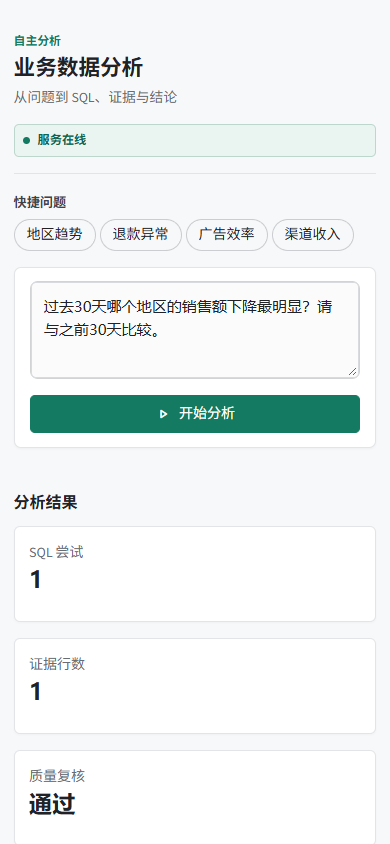
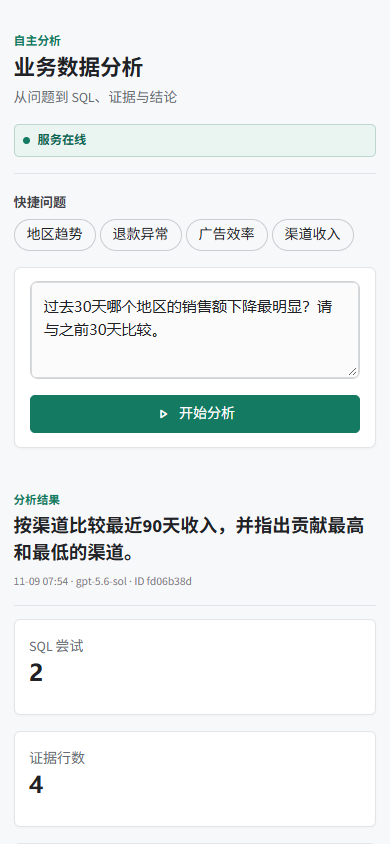
feat: refine analysis workspace UI

Changed region(s): [[0.0308, 0.5853, 0.9538, 0.8318], [0.0615, 0.8626, 0.9538, 0.9858]]

diff --git a/ui/streamlit_app.py b/ui/streamlit_app.py
@@ -122,6 +122,9 @@ st.markdown(
         color: #4f5459; font-weight: 550; padding-left: 0.45rem;
     }
     section[data-testid="stSidebar"] .stButton button:hover { background: #e6e9e8; color: var(--ink); }
+    section[data-testid="stSidebar"] [data-testid="stCaptionContainer"] {
+        color: #858a90; font-size: 0.68rem; margin: -0.42rem 0 0.42rem 2rem;
+    }
     section[data-testid="stSidebar"] .stButton button[kind="primary"] {
         background: var(--green) !important; border-color: var(--green) !important;
         color: #ffffff !important; justify-content: center;
@@ -139,16 +142,41 @@ st.markdown(
     div[data-testid="stStatusWidget"] { border: 1px solid var(--line); border-radius: 6px; background: var(--panel); }
 
     .ia-result-head {
-        display: flex; align-items: center; justify-content: space-between;
-        margin: 1.6rem 0 0.65rem;
+        display: grid; grid-template-columns: 1fr auto; gap: 1rem; align-items: end;
+        margin: 1.65rem 0 0.85rem; padding: 0 0 0.9rem;
+        border-bottom: 1px solid var(--line);
     }
-    .ia-result-title { font-size: 1rem; font-weight: 740; }
-    .ia-request-id { color: #858a90; font-family: monospace; font-size: 0.7rem; }
+    .ia-result-kicker { color: var(--green); font-size: 0.72rem; font-weight: 760; margin-bottom: 0.25rem; }
+    .ia-result-title { font-size: 1.15rem; line-height: 1.45; font-weight: 740; max-width: 920px; }
+    .ia-result-meta { color: #7b8085; font-size: 0.72rem; margin-top: 0.35rem; }
+    .ia-request-id { color: #858a90; font-family: monospace; font-size: 0.7rem; white-space: nowrap; }
     .ia-followup {
-        margin: 0.8rem 0 0.2rem; padding: 0.8rem 0.95rem;
+        margin: 0.8rem 0 0.55rem; padding: 0.8rem 0.95rem;
         border-left: 3px solid var(--green); background: var(--green-soft);
         color: #315b50; font-size: 0.8rem;
     }
+    .ia-stage-label { margin: 1rem 0 0.5rem; color: #62676c; font-size: 0.74rem; font-weight: 720; }
+    .ia-stage-strip {
+        display: grid; grid-template-columns: repeat(8, minmax(0, 1fr)); gap: 0.35rem;
+        margin-bottom: 0.9rem;
+    }
+    .ia-stage {
+        min-width: 0; padding: 0.55rem 0.52rem; border: 1px solid var(--line);
+        border-radius: 4px; background: var(--panel);
+    }
+    .ia-stage.ok { border-color: #b9d8cc; background: #f4faf7; }
+    .ia-stage.retry { border-color: #e5c58f; background: #fff9ef; }
+    .ia-stage.failed { border-color: #e4b8b2; background: var(--red-soft); }
+    .ia-stage-top { display: flex; align-items: center; gap: 0.35rem; min-width: 0; }
+    .ia-stage-index {
+        width: 18px; height: 18px; flex: 0 0 18px; display: grid; place-items: center;
+        border-radius: 50%; background: #a5aaae; color: #fff; font-size: 0.62rem; font-weight: 760;
+    }
+    .ia-stage.ok .ia-stage-index { background: var(--green); }
+    .ia-stage.retry .ia-stage-index { background: var(--amber); }
+    .ia-stage.failed .ia-stage-index { background: var(--red); }
+    .ia-stage-name { overflow: hidden; text-overflow: ellipsis; white-space: nowrap; font-size: 0.72rem; font-weight: 720; }
+    .ia-stage-time { margin: 0.28rem 0 0 1.45rem; color: #858a90; font-size: 0.64rem; }
     div[data-testid="stTabs"] [data-baseweb="tab-list"] { gap: 1.2rem; border-bottom: 1px solid var(--line); }
     div[data-testid="stTabs"] [data-baseweb="tab"] { height: 44px; padding: 0; font-weight: 650; color: #666b71; }
     div[data-testid="stTabs"] [aria-selected="true"] { color: var(--green); }
@@ -192,11 +220,18 @@ st.markdown(
     .ia-review-main { font-weight: 740; }
     .ia-review-score { font-size: 1.2rem; font-weight: 780; }
     .ia-empty {
-        margin-top: 1.25rem; padding: 2.4rem 1rem; text-align: center;
+        margin-top: 1.25rem; padding: 2.2rem 1rem 1.4rem; text-align: center;
         border-top: 1px solid var(--line); color: var(--muted);
     }
     .ia-empty-title { color: #474b50; font-weight: 700; font-size: 0.92rem; }
     .ia-empty-meta { margin-top: 0.35rem; font-size: 0.78rem; }
+    .ia-empty-flow {
+        max-width: 760px; margin: 1.45rem auto 0; display: grid;
+        grid-template-columns: repeat(4, 1fr); gap: 0.5rem;
+    }
+    .ia-empty-step { padding: 0.65rem 0.5rem; border-top: 2px solid #cdd2d5; text-align: left; }
+    .ia-empty-step strong { display: block; color: #44494e; font-size: 0.78rem; }
+    .ia-empty-step span { display: block; color: #858a90; font-size: 0.68rem; margin-top: 0.2rem; }
 
     [data-testid="stDataFrame"] { border: 1px solid var(--line); border-radius: 6px; overflow: hidden; }
     [data-testid="stCode"] { border-radius: 6px; }
@@ -207,6 +242,9 @@ st.markdown(
         .block-container { padding: 1rem 0.85rem 2rem; }
         .ia-header { grid-template-columns: 1fr; align-items: start; }
         .ia-title { font-size: 1.35rem; }
+        .ia-result-head { grid-template-columns: 1fr; align-items: start; }
+        .ia-stage-strip { grid-template-columns: repeat(2, minmax(0, 1fr)); }
+        .ia-empty-flow { grid-template-columns: repeat(2, 1fr); }
         .ia-trace-row { grid-template-columns: 1fr; gap: 0.2rem; }
         .ia-request-id { display: none; }
         .ia-review-banner { align-items: flex-start; }
@@ -272,6 +310,40 @@ def render_trace(trace: list[dict[str, Any]]) -> None:
             f'<div class="ia-trace-detail">{html.escape(event.get("detail", ""))}</div></div>'
         )
     st.markdown(f'<div class="ia-timeline">{"".join(rows)}</div>', unsafe_allow_html=True)
+
+
+def render_stage_overview(trace: list[dict[str, Any]]) -> None:
+    events_by_node: dict[str, list[dict[str, Any]]] = {}
+    for event in trace:
+        events_by_node.setdefault(event.get("node", ""), []).append(event)
+
+    stages = []
+    for index, node in enumerate(NODE_LABELS, start=1):
+        if node == "failure":
+            continue
+        events = events_by_node.get(node, [])
+        statuses = {event.get("status", "ok") for event in events}
+        if "failed" in statuses:
+            css_status = "failed"
+        elif "retry" in statuses or len(events) > 1:
+            css_status = "retry"
+        elif events:
+            css_status = "ok"
+        else:
+            css_status = "pending"
+        duration_ms = sum(float(event.get("duration_ms", 0) or 0) for event in events)
+        duration = format_duration(duration_ms) if events else "等待"
+        stages.append(
+            f'<div class="ia-stage {css_status}" title="{html.escape(NODE_LABELS[node])}">'
+            f'<div class="ia-stage-top"><span class="ia-stage-index">{index}</span>'
+            f'<span class="ia-stage-name">{html.escape(NODE_LABELS[node])}</span></div>'
+            f'<div class="ia-stage-time">{html.escape(duration)}</div></div>'
+        )
+    st.markdown(
+        '<div class="ia-stage-label">工作流阶段</div>'
+        f'<div class="ia-stage-strip">{"".join(stages)}</div>',
+        unsafe_allow_html=True,
+    )
 
 
 def render_findings(items: list[str]) -> None:
@@ -361,16 +433,39 @@ with st.sidebar:
         st.session_state["quick_select"] = None
         st.rerun()
 
-    st.markdown('<div class="ia-section-label">最近任务</div>', unsafe_allow_html=True)
-    history = get_run_history()
+    all_history = get_run_history()
+    st.markdown(
+        f'<div class="ia-section-label">最近任务 · {len(all_history)}</div>',
+        unsafe_allow_html=True,
+    )
+    history_query = st.text_input(
+        "搜索历史任务", placeholder="搜索问题", label_visibility="collapsed",
+        key="history_query",
+    )
+    history_filter = st.segmented_control(
+        "任务状态", options=["全部", "通过", "需复核"], default="全部",
+        label_visibility="collapsed", key="history_filter",
+    )
+    history = all_history
+    if history_query.strip():
+        query = history_query.strip().lower()
+        history = [item for item in history if query in item.get("question", "").lower()]
+    if history_filter == "通过":
+        history = [item for item in history if item.get("approved") is True]
+    elif history_filter == "需复核":
+        history = [item for item in history if item.get("approved") is not True]
+
     if history:
         for index, item in enumerate(history[:8]):
             label = item["question"] if len(item["question"]) <= 24 else f'{item["question"][:23]}…'
             status = item.get("status")
             if status == "completed":
                 time_label = format_run_time(item.get("created_at"))
+                duration_label = format_duration(float(item.get("total_duration_ms") or 0))
+                approved_label = "已通过" if item.get("approved") else "需复核"
+                item_icon = ":material/check_circle:" if item.get("approved") else ":material/warning:"
                 if st.button(
-                    label, key=f'history_{item["request_id"]}_{index}', icon=":material/history:",
+                    label, key=f'history_{item["request_id"]}_{index}', icon=item_icon,
                     help=f"{time_label} · {item['question']}", width="stretch",
                 ):
                     try:
@@ -378,11 +473,12 @@ with st.sidebar:
                         st.rerun()
                     except requests.RequestException:
                         st.error("历史任务读取失败。")
+                st.caption(f"{time_label} · {duration_label} · {approved_label}")
             else:
                 state_label = "执行中" if status == "running" else "失败"
                 st.caption(f"{state_label} · {label}")
     else:
-        st.caption("暂无历史任务")
+        st.caption("没有匹配的历史任务")
 
     st.markdown('<div class="ia-section-label">系统状态</div>', unsafe_allow_html=True)
     api_ok = health.get("status") == "ok"
@@ -451,7 +547,13 @@ if not result:
     st.markdown(
         """
         <div class="ia-empty"><div class="ia-empty-title">暂无分析结果</div>
-        <div class="ia-empty-meta">选择快捷问题或输入新的业务问题</div></div>
+        <div class="ia-empty-meta">选择快捷问题或输入新的业务问题</div>
+        <div class="ia-empty-flow">
+        <div class="ia-empty-step"><strong>1 · 规划</strong><span>拆解业务问题</span></div>
+        <div class="ia-empty-step"><strong>2 · 查询</strong><span>生成并校验 SQL</span></div>
+        <div class="ia-empty-step"><strong>3 · 分析</strong><span>从证据提取结论</span></div>
+        <div class="ia-empty-step"><strong>4 · 复核</strong><span>Reviewer 独立检查</span></div>
+        </div></div>
         """,
         unsafe_allow_html=True,
     )
@@ -461,9 +563,19 @@ else:
     confidence = float(review.get("confidence", 0) or 0)
     rows = result.get("rows", [])
     request_id = result.get("request_id", "")
+    run_summary = next(
+        (item for item in all_history if item.get("request_id") == request_id),
+        {},
+    )
+    created_at = format_run_time(run_summary.get("created_at"))
+    model_name = run_summary.get("model") or health.get("model", "未知模型")
+    meta_parts = [part for part in [created_at, str(model_name), f"ID {request_id[:8]}"] if part]
     st.markdown(
-        f'<div class="ia-result-head"><div class="ia-result-title">分析结果</div>'
-        f'<div class="ia-request-id">{html.escape(request_id)}</div></div>',
+        '<div class="ia-result-head"><div>'
+        '<div class="ia-result-kicker">分析结果</div>'
+        f'<div class="ia-result-title">{html.escape(result.get("question", "未命名分析"))}</div>'
+        f'<div class="ia-result-meta">{html.escape(" · ".join(meta_parts))}</div></div>'
+        f'<div class="ia-request-id" title="{html.escape(request_id)}">{html.escape(request_id[:8])}</div></div>',
         unsafe_allow_html=True,
     )
     metric_columns = st.columns(5)
@@ -474,13 +586,26 @@ else:
     metric_columns[4].metric(
         "端到端耗时", format_duration(float(result.get("total_duration_ms", 0) or 0))
     )
+    render_stage_overview(result.get("trace", []))
 
     if result.get("parent_request_id"):
-        st.markdown(
-            '<div class="ia-followup">本次分析基于上一轮结果继续追问，'
-            'Planner 和 SQL Generator 已获得受控历史上下文。</div>',
-            unsafe_allow_html=True,
-        )
+        lineage_info, lineage_action = st.columns([1, 0.2], vertical_alignment="center")
+        with lineage_info:
+            st.markdown(
+                '<div class="ia-followup">本次分析基于上一轮结果继续追问，'
+                'Planner 和 SQL Generator 已获得受控历史上下文。</div>',
+                unsafe_allow_html=True,
+            )
+        with lineage_action:
+            if st.button(
+                "上一轮", icon=":material/arrow_back:", width="stretch",
+                key=f"open_parent_{request_id}", help="打开本次追问的父任务",
+            ):
+                try:
+                    st.session_state["last_result"] = get_run_result(result["parent_request_id"])
+                    st.rerun()
+                except requests.RequestException:
+                    st.error("上一轮任务读取失败。")
 
     with st.expander("基于本次结果继续追问", icon=":material/forum:"):
         with st.form(f"follow_up_form_{request_id}", border=False):
